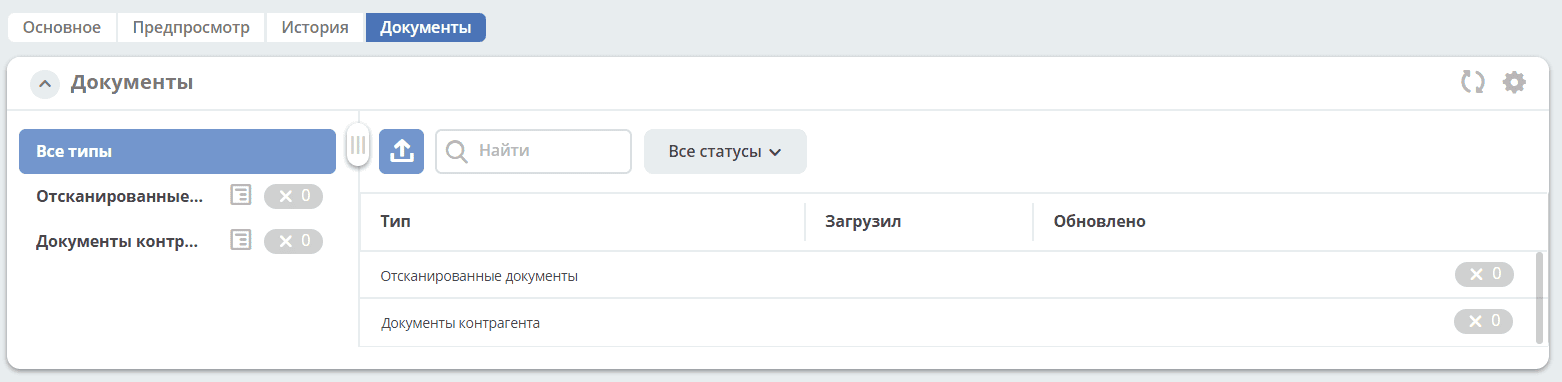
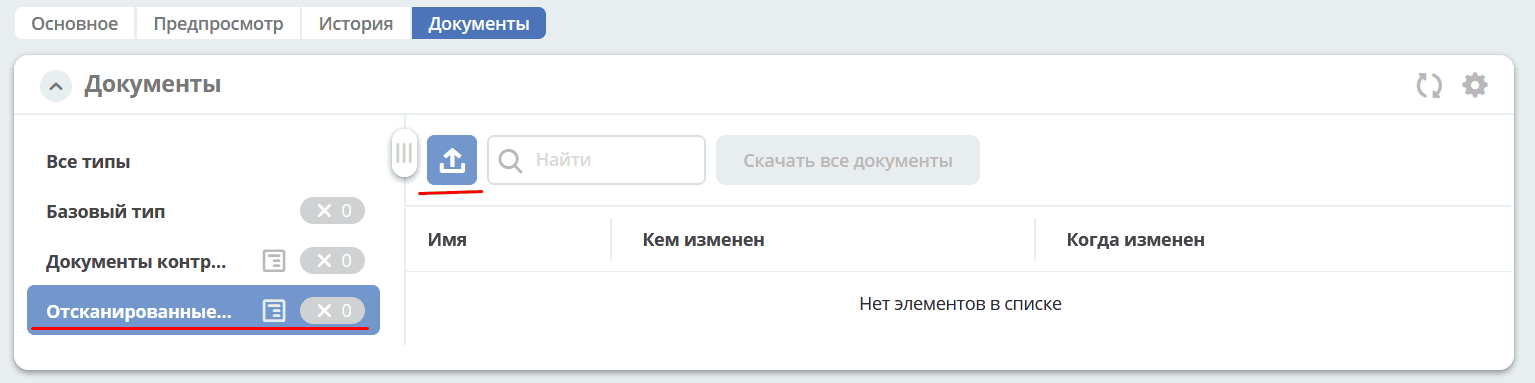
Modules update

diff --git a/docs/introduction/ecos_modules/crm.rst b/docs/introduction/ecos_modules/crm.rst
@@ -137,7 +137,15 @@
       * - **Категория обращения**
         - Выбрать из справочника категорию, к которому относится сделка.
       * - **Источник обращения**
-        - Выбрать из справочника источник информации, из которого клиент узнал о вас и об услугах, которые вы предоставляете
+        - | Выбрать из справочника источник информации, из которого клиент узнал о вас и об услугах, которые вы предоставляете. На данный момент доступны:
+          | - Google — нашли через Google поиск;
+          | - Yandex — нашли через Яндекс поиск;
+          | - Web — переход с любого стороннего сайта;
+          | - Direct — реклама в Яндекс.Директ;
+          | - Link — прямая ссылка, т.е. пользователь указал адрес сайта сам, перешёл из избранного и т.д.;
+          | - Mail — письмо из почты;
+          | - Relations — по знакомству;
+          | - Other — для разбора вручную (например, переходы из мессенджеров или соцсетей).
       * - **Раздел «Контактные лица»**
         - Содержит информацию о контактных лицах. Контактов может быть несколько - для добавления используйте кнопку **+ Добавить еще**
       * - **ФИО**
@@ -265,7 +273,7 @@ Cоздать контрагента можно из карточки сделк
 дозаполните обязательные поля и нажмите **Создать**.
 
 Создание поручения по сделке
----------------------------------------
+-------------------------------
 
 Cоздать поручение можно из карточки сделки, выбрав действие **«Создать поручение»**. См. подробно :ref:`Создание поручения из карточки<ecos-assignments-action>`
 
@@ -278,7 +286,7 @@ Cоздать поручение можно из карточки сделки, 
 	* Автор;
 	* Электронный адрес;
 	* Категория обращения;
-	* Источник обращения
+	* Источник обращения.
 
 Настройка **mail-inbox-crm (Конфигурация почтового ящика IMAP для чтения писем в CRM Camel route)**:
 

diff --git a/docs/introduction/ecos_modules/contract.rst b/docs/introduction/ecos_modules/contract.rst
@@ -237,19 +237,19 @@
        :width: 600
        :align: center
 
-В виджете **«Документы»** Делопроизводитель прикладывает к карточке отсканированный Договор на подписание. 
+В виджете **«Документы»** в тип **Отсканированные документы**:
 
  .. image:: _static/contract/contract_11.png
        :width: 600
        :align: center
 
-|
+Делопроизводитель прикладывает скан-копию подписанного Договора:
 
  .. image:: _static/contract/contract_11_1.png
        :width: 600
        :align: center
 
-Доступны следующие варианты завершения задачи:
+и завершает задачу, выбрав вариант:
 
  -	**«Аннулировать»** - договор переходит в статус **«Запрос на аннулирование»**, на Инициатора будет назначена задача **«Подтверждение аннулирования»**.
  -	**«Подтвердить»** - Договор переходит в финальный статус **«Действует»**.

diff --git a/docs/integration/Camel_DSL.rst b/docs/integration/Camel_DSL.rst
@@ -577,8 +577,8 @@ URI
 
 .. code-block::
 
-attributes:
-  ?id: ?id
+  attributes:
+    ?id: ?id
 
 Параметры
 """"""""""""""""
@@ -1136,7 +1136,7 @@ ru.citeck.ecos.camel.processor.data.CreateEcosHistoryDocumentMirrorProcessor
         - String
         - см. хидеры → CreateEcosHistoryDocumentMirrorDocumentRefIdPrefix
 
-Хидеры
+**Хидеры**
 
 .. list-table::
       :widths: 5 5 10 10
